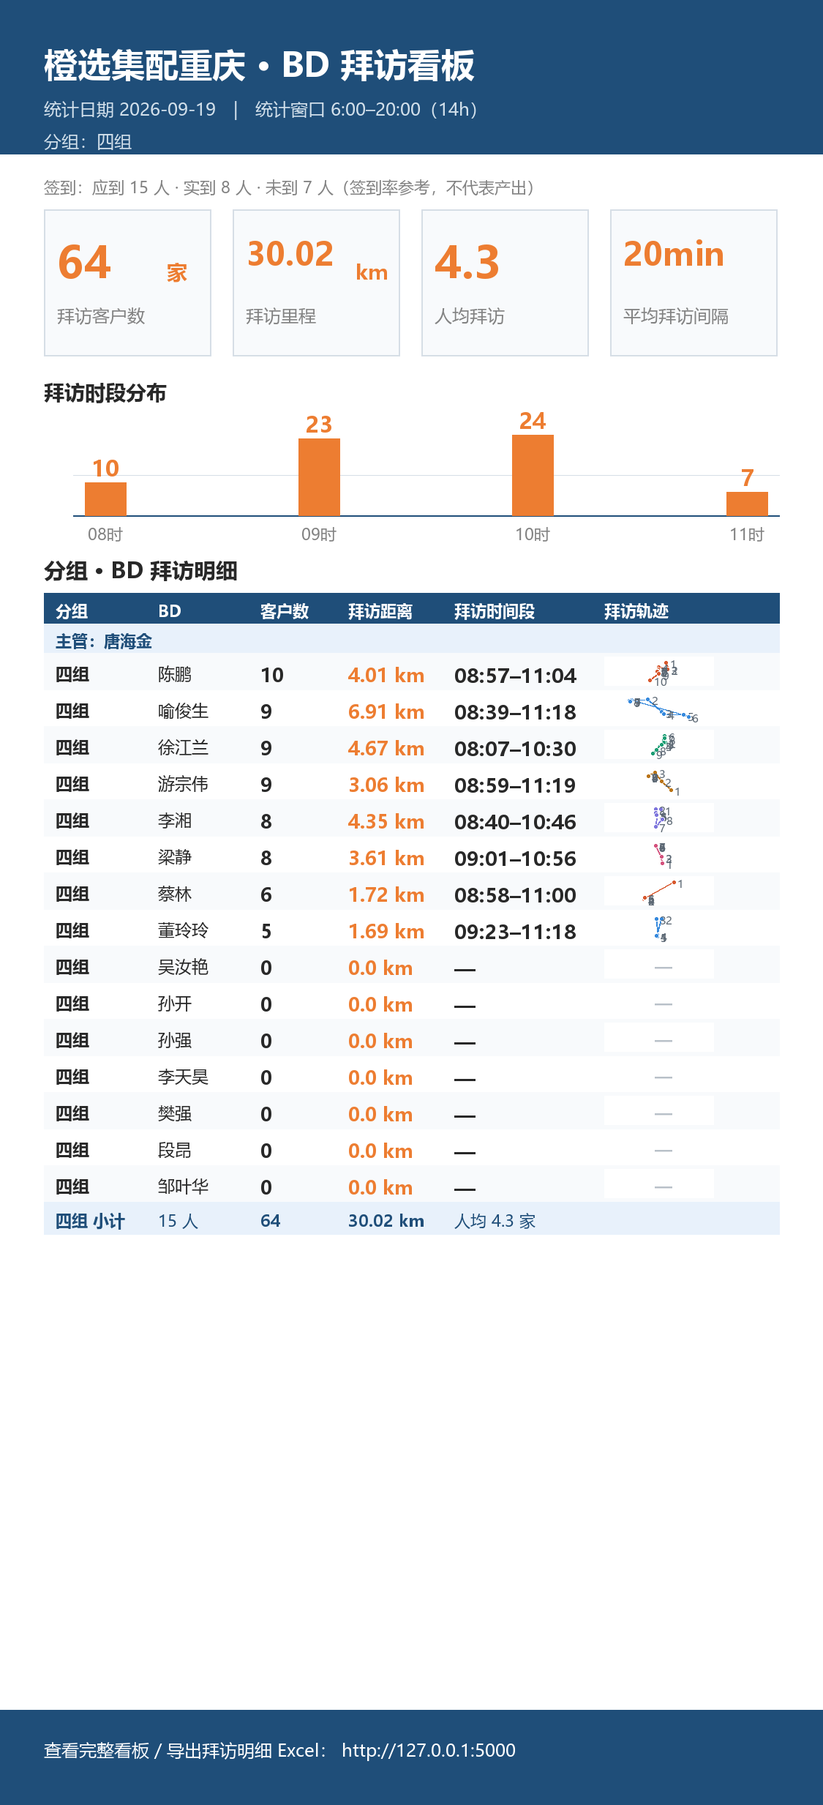
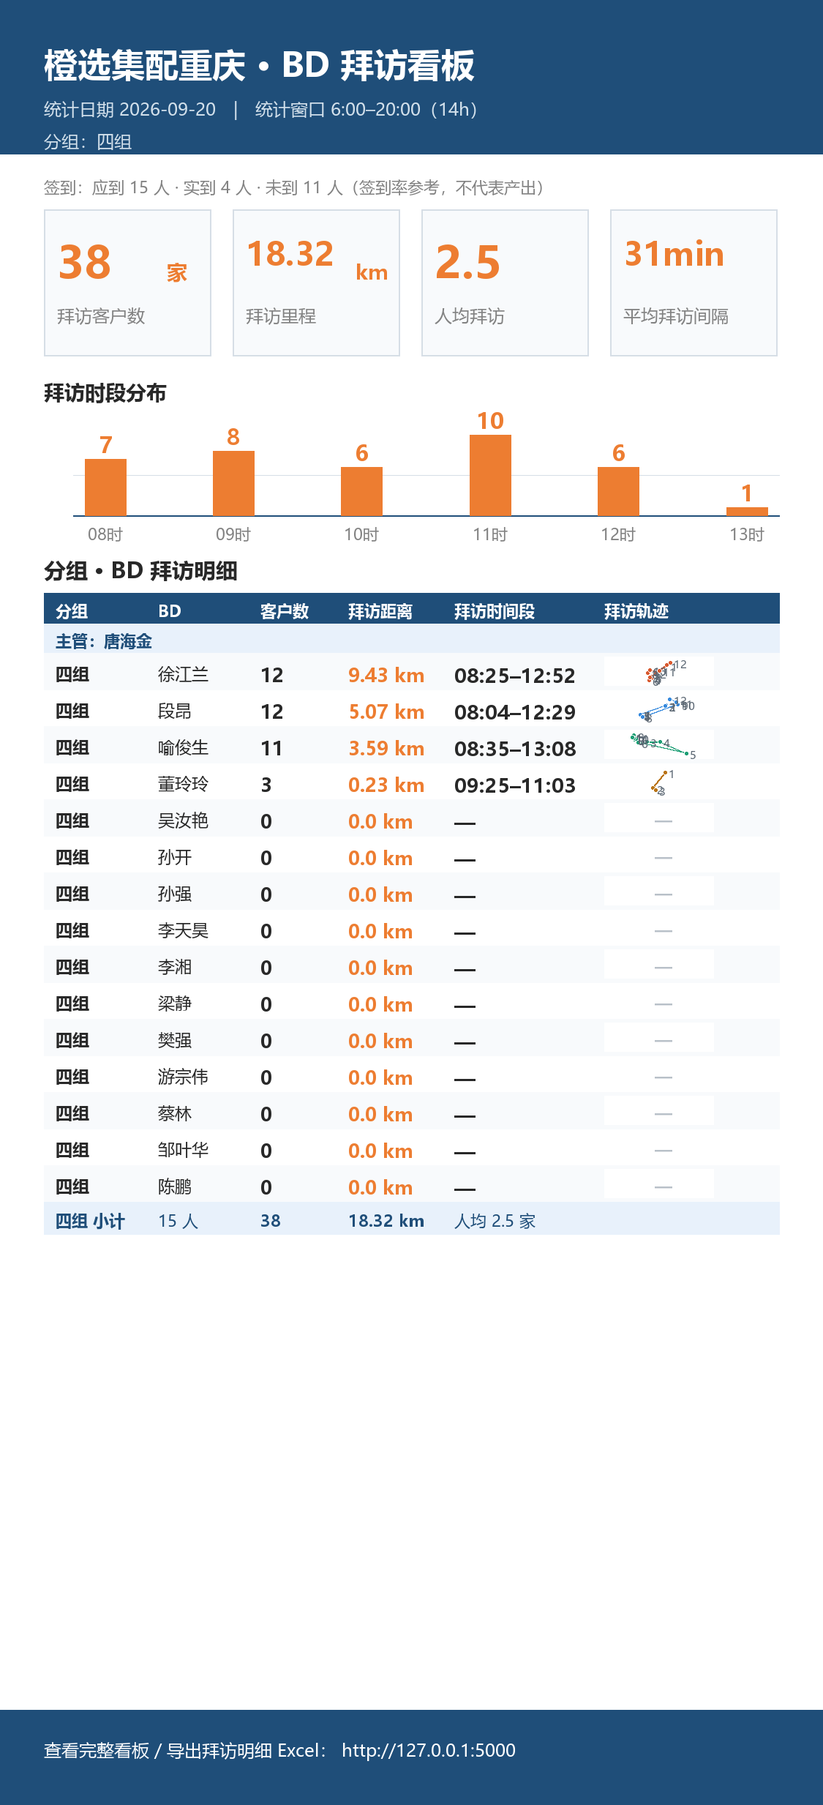
BD 拜访看板 2026-09-20

diff --git a/bd_visits/visit_board_g4.html b/bd_visits/visit_board_g4.html
@@ -107,28 +107,28 @@ td.span{font-size:16px;font-weight:600;color:#1F4E79;white-space:nowrap}
 <div class="sub">统计日期 2026-09-20　|　15 人　|　数据来源：钉钉签到</div></div>
 <div class="wrap">
 <div class="cards">
-<div class="card"><div><span class="v">30</span><span class="u">家</span></div><div class="l">拜访客户数</div></div><div class="card"><div><span class="v">13.75</span><span class="u">km</span></div><div class="l">拜访里程</div></div><div class="card"><div><span class="v">2.0</span><span class="u">家</span></div><div class="l">人均拜访</div></div><div class="card"><div><span class="v">31min</span><span class="u"></span></div><div class="l">平均拜访间隔</div></div>
+<div class="card"><div><span class="v">38</span><span class="u">家</span></div><div class="l">拜访客户数</div></div><div class="card"><div><span class="v">18.32</span><span class="u">km</span></div><div class="l">拜访里程</div></div><div class="card"><div><span class="v">2.5</span><span class="u">家</span></div><div class="l">人均拜访</div></div><div class="card"><div><span class="v">31min</span><span class="u"></span></div><div class="l">平均拜访间隔</div></div>
 </div>
-<div class="section"><h2>拜访时段分布</h2><div class="chart"><div class="crow"><div class="col"><span class="bv">7</span><div class="bar" style="height:40px"></div><span class="xl">08时</span></div><div class="col"><span class="bv">8</span><div class="bar" style="height:45px"></div><span class="xl">09时</span></div><div class="col"><span class="bv">6</span><div class="bar" style="height:35px"></div><span class="xl">10时</span></div><div class="col"><span class="bv">9</span><div class="bar" style="height:50px"></div><span class="xl">11时</span></div></div></div></div>
+<div class="section"><h2>拜访时段分布</h2><div class="chart"><div class="crow"><div class="col"><span class="bv">7</span><div class="bar" style="height:36px"></div><span class="xl">08时</span></div><div class="col"><span class="bv">8</span><div class="bar" style="height:41px"></div><span class="xl">09时</span></div><div class="col"><span class="bv">6</span><div class="bar" style="height:32px"></div><span class="xl">10时</span></div><div class="col"><span class="bv">10</span><div class="bar" style="height:50px"></div><span class="xl">11时</span></div><div class="col"><span class="bv">6</span><div class="bar" style="height:32px"></div><span class="xl">12时</span></div><div class="col"><span class="bv">1</span><div class="bar" style="height:9px"></div><span class="xl">13时</span></div></div></div></div>
 <div class="section"><h2>BD 拜访明细（15 人 / 签到 4 人）</h2>
 <table class="bd"><thead><tr><th>BD</th><th class="num">客户数</th><th class="num">拜访距离</th><th class="c">拜访时间段</th><th class="c">拜访轨迹</th></tr></thead>
 <tbody><tr style="background:#F2F6FB">
 <td data-label="BD">徐江兰</td>
-<td class="num" data-label="客户数">10</td>
-<td class="num orange" data-label="拜访距离">5.64</td>
-<td class="c span" data-label="拜访时间段">08:25–11:38</td>
+<td class="num" data-label="客户数">12</td>
+<td class="num orange" data-label="拜访距离">9.43</td>
+<td class="c span" data-label="拜访时间段">08:25–12:52</td>
 <td class="c" data-label="拜访轨迹"><a href="javascript:void(0)" onclick="openRoute(0)" style="color:#1F4E79;font-weight:600;font-size:13px;white-space:nowrap">查看详情 ›</a></td>
 </tr><tr style="background:#FFFFFF">
 <td data-label="BD">段昂</td>
-<td class="num" data-label="客户数">9</td>
-<td class="num orange" data-label="拜访距离">4.44</td>
-<td class="c span" data-label="拜访时间段">08:04–11:44</td>
+<td class="num" data-label="客户数">12</td>
+<td class="num orange" data-label="拜访距离">5.07</td>
+<td class="c span" data-label="拜访时间段">08:04–12:29</td>
 <td class="c" data-label="拜访轨迹"><a href="javascript:void(0)" onclick="openRoute(1)" style="color:#1F4E79;font-weight:600;font-size:13px;white-space:nowrap">查看详情 ›</a></td>
 </tr><tr style="background:#F2F6FB">
 <td data-label="BD">喻俊生</td>
-<td class="num" data-label="客户数">8</td>
-<td class="num orange" data-label="拜访距离">3.44</td>
-<td class="c span" data-label="拜访时间段">08:35–11:41</td>
+<td class="num" data-label="客户数">11</td>
+<td class="num orange" data-label="拜访距离">3.59</td>
+<td class="c span" data-label="拜访时间段">08:35–13:08</td>
 <td class="c" data-label="拜访轨迹"><a href="javascript:void(0)" onclick="openRoute(2)" style="color:#1F4E79;font-weight:600;font-size:13px;white-space:nowrap">查看详情 ›</a></td>
 </tr><tr style="background:#FFFFFF">
 <td data-label="BD">董玲玲</td>
@@ -216,7 +216,7 @@ td.span{font-size:16px;font-weight:600;color:#1F4E79;white-space:nowrap}
 </div>
 
 <script>
-const R={"0": {"name": "徐江兰", "group": "四组", "visits": 10, "distance": 5.64, "span": "08:25–11:38", "pace": "22min", "pts": [{"lat": 30.66855902777778, "lon": 107.80062391493055, "time": "08:25", "visit": "新客拜访", "loc": "梁山街道核桃巷10号文图大楼(建设中)", "seg_km": 0.0}, {"lat": 30.657359212239584, "lon": 107.78189208984375, "time": "08:56", "visit": "回访", "loc": "双桂街道仁安路兴茂·盛世华都", "seg_km": 2.18}, {"lat": 30.651634385850695, "lon": 107.77478542751736, "time": "09:33", "visit": "维护、促单", "loc": "双桂街道玉桂路梁平时光", "seg_km": 0.93}, {"lat": 30.649035101996528, "lon": 107.77356879340277, "time": "09:40", "visit": "回访", "loc": "双桂街道钟文路中央公园城", "seg_km": 0.31}, {"lat": 30.649158528645835, "lon": 107.77355143229167, "time": "09:55", "visit": "做售后", "loc": "双桂街道钟文路中央公园城", "seg_km": 0.01}, {"lat": 30.646631130642362, "lon": 107.76994818793403, "time": "10:31", "visit": "回访", "loc": "双桂街道丹桂大道隆鑫花漾城", "seg_km": 0.44}, {"lat": 30.650628797743057, "lon": 107.77122802734375, "time": "10:47", "visit": "挽回", "loc": "双桂街道A+寿司(帝豪·时代城二期店)帝豪·时代城二期", "seg_km": 0.46}, {"lat": 30.656971571180556, "lon": 107.76813557942708, "time": "10:58", "visit": "新客拜访", "loc": "双桂街道竹贞路书香郡", "seg_km": 0.76}, {"lat": 30.660824110243055, "lon": 107.7711181640625, "time": "11:10", "visit": "回访", "loc": "双桂街道迎宾路89号", "seg_km": 0.51}, {"lat": 30.66115451388889, "lon": 107.77121473524305, "time": "11:38", "visit": "挽回", "loc": "双桂街道云复路渝峰水管有限公司", "seg_km": 0.04}], "stops": [{"n": 1, "time": "08:25", "visit": "新客拜访", "loc": "梁山街道核桃巷10号文图大楼(建设中)"}, {"n": 2, "time": "08:56", "visit": "回访", "loc": "双桂街道仁安路兴茂·盛世华都"}, {"n": 3, "time": "09:33", "visit": "维护、促单", "loc": "双桂街道玉桂路梁平时光"}, {"n": 4, "time": "09:40", "visit": "回访", "loc": "双桂街道钟文路中央公园城"}, {"n": 5, "time": "09:55", "visit": "做售后", "loc": "双桂街道钟文路中央公园城"}, {"n": 6, "time": "10:31", "visit": "回访", "loc": "双桂街道丹桂大道隆鑫花漾城"}, {"n": 7, "time": "10:47", "visit": "挽回", "loc": "双桂街道A+寿司(帝豪·时代城二期店)帝豪·时代城二期"}, {"n": 8, "time": "10:58", "visit": "新客拜访", "loc": "双桂街道竹贞路书香郡"}, {"n": 9, "time": "11:10", "visit": "回访", "loc": "双桂街道迎宾路89号"}, {"n": 10, "time": "11:38", "visit": "挽回", "loc": "双桂街道云复路渝峰水管有限公司"}]}, "1": {"name": "段昂", "group": "四组", "visits": 9, "distance": 4.44, "span": "08:04–11:44", "pace": "28min", "pts": [{"lat": 29.70568142361111, "lon": 107.39352728949653, "time": "08:04", "visit": "水果店\n新客户开发", "loc": "荔枝街道黎明路", "seg_km": 0.0}, {"lat": 29.705283745659724, "lon": 107.39302707248264, "time": "08:06", "visit": "张姐超级鲜果\n新客户开发", "loc": "荔枝街道黎明路", "seg_km": 0.07}, {"lat": 29.705258517795137, "lon": 107.39290771484374, "time": "08:14", "visit": "黎明路口便民菜市场\n新客开发", "loc": "荔枝街道黎明路", "seg_km": 0.01}, {"lat": 29.699981553819445, "lon": 107.37625596788195, "time": "09:05", "visit": "一家生鲜\n新客户开发", "loc": "荔枝街道太极大道涪城尚座", "seg_km": 1.71}, {"lat": 29.700158148871527, "lon": 107.37622477213542, "time": "10:06", "visit": "物资小区门口水果摊\n拜访召回", "loc": "荔枝街道太极大道物资小区", "seg_km": 0.02}, {"lat": 29.700082736545138, "lon": 107.3762584092882, "time": "10:07", "visit": "佳容超市\n拜访召回", "loc": "荔枝街道太极大道涪城尚座", "seg_km": 0.01}, {"lat": 29.70017578125, "lon": 107.37630669487847, "time": "10:27", "visit": "宜金昇\n拜访新客户", "loc": "荔枝街道太极大道物资小区", "seg_km": 0.01}, {"lat": 29.6990625, "lon": 107.3777210828993, "time": "11:00", "visit": "永香果蔬便利店\n召回客户", "loc": "荔枝街道太极大道青云大厦(太极大道)", "seg_km": 0.18}, {"lat": 29.706268174913195, "lon": 107.4014794921875, "time": "11:44", "visit": "五桂堂b08\n老客户维护", "loc": "敦仁街道中国工商银行(南门山支行)", "seg_km": 2.43}], "stops": [{"n": 1, "time": "08:04", "visit": "水果店\n新客户开发", "loc": "荔枝街道黎明路"}, {"n": 2, "time": "08:06", "visit": "张姐超级鲜果\n新客户开发", "loc": "荔枝街道黎明路"}, {"n": 3, "time": "08:14", "visit": "黎明路口便民菜市场\n新客开发", "loc": "荔枝街道黎明路"}, {"n": 4, "time": "09:05", "visit": "一家生鲜\n新客户开发", "loc": "荔枝街道太极大道涪城尚座"}, {"n": 5, "time": "10:06", "visit": "物资小区门口水果摊\n拜访召回", "loc": "荔枝街道太极大道物资小区"}, {"n": 6, "time": "10:07", "visit": "佳容超市\n拜访召回", "loc": "荔枝街道太极大道涪城尚座"}, {"n": 7, "time": "10:27", "visit": "宜金昇\n拜访新客户", "loc": "荔枝街道太极大道物资小区"}, {"n": 8, "time": "11:00", "visit": "永香果蔬便利店\n召回客户", "loc": "荔枝街道太极大道青云大厦(太极大道)"}, {"n": 9, "time": "11:44", "visit": "五桂堂b08\n老客户维护", "loc": "敦仁街道中国工商银行(南门山支行)"}]}, "2": {"name": "喻俊生", "group": "四组", "visits": 8, "distance": 3.44, "span": "08:35–11:41", "pace": "26min", "pts": [{"lat": 29.531076388888888, "lon": 108.76494710286458, "time": "08:35", "visit": "水果摊\n新开", "loc": "城西街道城西三路", "seg_km": 0.0}, {"lat": 29.530256890190973, "lon": 108.76581841362847, "time": "08:40", "visit": "新开客户", "loc": "城西街道杨家巷", "seg_km": 0.12}, {"lat": 29.529680718315973, "lon": 108.76954752604166, "time": "09:20", "visit": "果然多\n新开", "loc": "城西街道新华大道西段", "seg_km": 0.37}, {"lat": 29.529656846788196, "lon": 108.77362955729167, "time": "09:34", "visit": "正华水果\n新开", "loc": "城西街道新华大道中段954号工行黔江分行大楼", "seg_km": 0.39}, {"lat": 29.526612413194446, "lon": 108.7817333984375, "time": "11:06", "visit": "南海城菜市场", "loc": "城东街道解放路天龙大酒店", "seg_km": 0.85}, {"lat": 29.52944580078125, "lon": 108.76688802083333, "time": "11:16", "visit": "一口果", "loc": "城西街道新华大道西段101号金穗花园", "seg_km": 1.47}, {"lat": 29.53036810980903, "lon": 108.76626247829861, "time": "11:35", "visit": "新开", "loc": "城西街道城西三路59号", "seg_km": 0.12}, {"lat": 29.531288519965276, "lon": 108.76562445746528, "time": "11:41", "visit": "新开", "loc": "城西街道大梁子巷", "seg_km": 0.12}], "stops": [{"n": 1, "time": "08:35", "visit": "水果摊\n新开", "loc": "城西街道城西三路"}, {"n": 2, "time": "08:40", "visit": "新开客户", "loc": "城西街道杨家巷"}, {"n": 3, "time": "09:20", "visit": "果然多\n新开", "loc": "城西街道新华大道西段"}, {"n": 4, "time": "09:34", "visit": "正华水果\n新开", "loc": "城西街道新华大道中段954号工行黔江分行大楼"}, {"n": 5, "time": "11:06", "visit": "南海城菜市场", "loc": "城东街道解放路天龙大酒店"}, {"n": 6, "time": "11:16", "visit": "一口果", "loc": "城西街道新华大道西段101号金穗花园"}, {"n": 7, "time": "11:35", "visit": "新开", "loc": "城西街道城西三路59号"}, {"n": 8, "time": "11:41", "visit": "新开", "loc": "城西街道大梁子巷"}]}, "3": {"name": "董玲玲", "group": "四组", "visits": 3, "distance": 0.23, "span": "09:25–11:03", "pace": "49min", "pts": [{"lat": 30.834994032118054, "lon": 106.97144287109376, "time": "09:25", "visit": "挽回", "loc": "渠江街道后溪街", "seg_km": 0.0}, {"lat": 30.833531358506946, "lon": 106.97017605251736, "time": "09:38", "visit": "开新", "loc": "渠南街道半边街156号渠县人民市场", "seg_km": 0.2}, {"lat": 30.833363444010416, "lon": 106.97043782552083, "time": "11:03", "visit": "售后", "loc": "渠南街道半边街156号渠县人民市场", "seg_km": 0.03}], "stops": [{"n": 1, "time": "09:25", "visit": "挽回", "loc": "渠江街道后溪街"}, {"n": 2, "time": "09:38", "visit": "开新", "loc": "渠南街道半边街156号渠县人民市场"}, {"n": 3, "time": "11:03", "visit": "售后", "loc": "渠南街道半边街156号渠县人民市场"}]}};
+const R={"0": {"name": "徐江兰", "group": "四组", "visits": 12, "distance": 9.43, "span": "08:25–12:52", "pace": "24min", "pts": [{"lat": 30.66855902777778, "lon": 107.80062391493055, "time": "08:25", "visit": "新客拜访", "loc": "梁山街道核桃巷10号文图大楼(建设中)", "seg_km": 0.0}, {"lat": 30.657359212239584, "lon": 107.78189208984375, "time": "08:56", "visit": "回访", "loc": "双桂街道仁安路兴茂·盛世华都", "seg_km": 2.18}, {"lat": 30.651634385850695, "lon": 107.77478542751736, "time": "09:33", "visit": "维护、促单", "loc": "双桂街道玉桂路梁平时光", "seg_km": 0.93}, {"lat": 30.649035101996528, "lon": 107.77356879340277, "time": "09:40", "visit": "回访", "loc": "双桂街道钟文路中央公园城", "seg_km": 0.31}, {"lat": 30.649158528645835, "lon": 107.77355143229167, "time": "09:55", "visit": "做售后", "loc": "双桂街道钟文路中央公园城", "seg_km": 0.01}, {"lat": 30.646631130642362, "lon": 107.76994818793403, "time": "10:31", "visit": "回访", "loc": "双桂街道丹桂大道隆鑫花漾城", "seg_km": 0.44}, {"lat": 30.650628797743057, "lon": 107.77122802734375, "time": "10:47", "visit": "挽回", "loc": "双桂街道A+寿司(帝豪·时代城二期店)帝豪·时代城二期", "seg_km": 0.46}, {"lat": 30.656971571180556, "lon": 107.76813557942708, "time": "10:58", "visit": "新客拜访", "loc": "双桂街道竹贞路书香郡", "seg_km": 0.76}, {"lat": 30.660824110243055, "lon": 107.7711181640625, "time": "11:10", "visit": "回访", "loc": "双桂街道迎宾路89号", "seg_km": 0.51}, {"lat": 30.66115451388889, "lon": 107.77121473524305, "time": "11:38", "visit": "挽回", "loc": "双桂街道云复路渝峰水管有限公司", "seg_km": 0.04}, {"lat": 30.66026340060764, "lon": 107.7874462890625, "time": "12:19", "visit": "挽回", "loc": "双桂街道西城路锦绣家园", "seg_km": 1.56}, {"lat": 30.67243896484375, "lon": 107.80597819010417, "time": "12:52", "visit": "挽回", "loc": "梁山街道东池街东城丽景", "seg_km": 2.23}], "stops": [{"n": 1, "time": "08:25", "visit": "新客拜访", "loc": "梁山街道核桃巷10号文图大楼(建设中)"}, {"n": 2, "time": "08:56", "visit": "回访", "loc": "双桂街道仁安路兴茂·盛世华都"}, {"n": 3, "time": "09:33", "visit": "维护、促单", "loc": "双桂街道玉桂路梁平时光"}, {"n": 4, "time": "09:40", "visit": "回访", "loc": "双桂街道钟文路中央公园城"}, {"n": 5, "time": "09:55", "visit": "做售后", "loc": "双桂街道钟文路中央公园城"}, {"n": 6, "time": "10:31", "visit": "回访", "loc": "双桂街道丹桂大道隆鑫花漾城"}, {"n": 7, "time": "10:47", "visit": "挽回", "loc": "双桂街道A+寿司(帝豪·时代城二期店)帝豪·时代城二期"}, {"n": 8, "time": "10:58", "visit": "新客拜访", "loc": "双桂街道竹贞路书香郡"}, {"n": 9, "time": "11:10", "visit": "回访", "loc": "双桂街道迎宾路89号"}, {"n": 10, "time": "11:38", "visit": "挽回", "loc": "双桂街道云复路渝峰水管有限公司"}, {"n": 11, "time": "12:19", "visit": "挽回", "loc": "双桂街道西城路锦绣家园"}, {"n": 12, "time": "12:52", "visit": "挽回", "loc": "梁山街道东池街东城丽景"}]}, "1": {"name": "段昂", "group": "四组", "visits": 12, "distance": 5.07, "span": "08:04–12:29", "pace": "24min", "pts": [{"lat": 29.70568142361111, "lon": 107.39352728949653, "time": "08:04", "visit": "水果店\n新客户开发", "loc": "荔枝街道黎明路", "seg_km": 0.0}, {"lat": 29.705283745659724, "lon": 107.39302707248264, "time": "08:06", "visit": "张姐超级鲜果\n新客户开发", "loc": "荔枝街道黎明路", "seg_km": 0.07}, {"lat": 29.705258517795137, "lon": 107.39290771484374, "time": "08:14", "visit": "黎明路口便民菜市场\n新客开发", "loc": "荔枝街道黎明路", "seg_km": 0.01}, {"lat": 29.699981553819445, "lon": 107.37625596788195, "time": "09:05", "visit": "一家生鲜\n新客户开发", "loc": "荔枝街道太极大道涪城尚座", "seg_km": 1.71}, {"lat": 29.700158148871527, "lon": 107.37622477213542, "time": "10:06", "visit": "物资小区门口水果摊\n拜访召回", "loc": "荔枝街道太极大道物资小区", "seg_km": 0.02}, {"lat": 29.700082736545138, "lon": 107.3762584092882, "time": "10:07", "visit": "佳容超市\n拜访召回", "loc": "荔枝街道太极大道涪城尚座", "seg_km": 0.01}, {"lat": 29.70017578125, "lon": 107.37630669487847, "time": "10:27", "visit": "宜金昇\n拜访新客户", "loc": "荔枝街道太极大道物资小区", "seg_km": 0.01}, {"lat": 29.6990625, "lon": 107.3777210828993, "time": "11:00", "visit": "永香果蔬便利店\n召回客户", "loc": "荔枝街道太极大道青云大厦(太极大道)", "seg_km": 0.18}, {"lat": 29.706268174913195, "lon": 107.4014794921875, "time": "11:44", "visit": "五桂堂b08\n老客户维护", "loc": "敦仁街道中国工商银行(南门山支行)", "seg_km": 2.43}, {"lat": 29.706170247395832, "lon": 107.40150906032986, "time": "12:00", "visit": "五桂堂b02\n维护老客户", "loc": "敦仁街道人民东路", "seg_km": 0.01}, {"lat": 29.70726291232639, "lon": 107.40024848090277, "time": "12:05", "visit": "新纪元陈兴其\n老客户维护", "loc": "敦仁街道人民东路9号", "seg_km": 0.17}, {"lat": 29.709204915364584, "lon": 107.39610243055556, "time": "12:29", "visit": "鲜肉铺\n新客户开发", "loc": "敦仁街道中山路金科长江星辰", "seg_km": 0.45}], "stops": [{"n": 1, "time": "08:04", "visit": "水果店\n新客户开发", "loc": "荔枝街道黎明路"}, {"n": 2, "time": "08:06", "visit": "张姐超级鲜果\n新客户开发", "loc": "荔枝街道黎明路"}, {"n": 3, "time": "08:14", "visit": "黎明路口便民菜市场\n新客开发", "loc": "荔枝街道黎明路"}, {"n": 4, "time": "09:05", "visit": "一家生鲜\n新客户开发", "loc": "荔枝街道太极大道涪城尚座"}, {"n": 5, "time": "10:06", "visit": "物资小区门口水果摊\n拜访召回", "loc": "荔枝街道太极大道物资小区"}, {"n": 6, "time": "10:07", "visit": "佳容超市\n拜访召回", "loc": "荔枝街道太极大道涪城尚座"}, {"n": 7, "time": "10:27", "visit": "宜金昇\n拜访新客户", "loc": "荔枝街道太极大道物资小区"}, {"n": 8, "time": "11:00", "visit": "永香果蔬便利店\n召回客户", "loc": "荔枝街道太极大道青云大厦(太极大道)"}, {"n": 9, "time": "11:44", "visit": "五桂堂b08\n老客户维护", "loc": "敦仁街道中国工商银行(南门山支行)"}, {"n": 10, "time": "12:00", "visit": "五桂堂b02\n维护老客户", "loc": "敦仁街道人民东路"}, {"n": 11, "time": "12:05", "visit": "新纪元陈兴其\n老客户维护", "loc": "敦仁街道人民东路9号"}, {"n": 12, "time": "12:29", "visit": "鲜肉铺\n新客户开发", "loc": "敦仁街道中山路金科长江星辰"}]}, "2": {"name": "喻俊生", "group": "四组", "visits": 11, "distance": 3.59, "span": "08:35–13:08", "pace": "27min", "pts": [{"lat": 29.531076388888888, "lon": 108.76494710286458, "time": "08:35", "visit": "水果摊\n新开", "loc": "城西街道城西三路", "seg_km": 0.0}, {"lat": 29.530256890190973, "lon": 108.76581841362847, "time": "08:40", "visit": "新开客户", "loc": "城西街道杨家巷", "seg_km": 0.12}, {"lat": 29.529680718315973, "lon": 108.76954752604166, "time": "09:20", "visit": "果然多\n新开", "loc": "城西街道新华大道西段", "seg_km": 0.37}, {"lat": 29.529656846788196, "lon": 108.77362955729167, "time": "09:34", "visit": "正华水果\n新开", "loc": "城西街道新华大道中段954号工行黔江分行大楼", "seg_km": 0.39}, {"lat": 29.526612413194446, "lon": 108.7817333984375, "time": "11:06", "visit": "南海城菜市场", "loc": "城东街道解放路天龙大酒店", "seg_km": 0.85}, {"lat": 29.52944580078125, "lon": 108.76688802083333, "time": "11:16", "visit": "一口果", "loc": "城西街道新华大道西段101号金穗花园", "seg_km": 1.47}, {"lat": 29.53036810980903, "lon": 108.76626247829861, "time": "11:35", "visit": "新开", "loc": "城西街道城西三路59号", "seg_km": 0.12}, {"lat": 29.531288519965276, "lon": 108.76562445746528, "time": "11:41", "visit": "新开", "loc": "城西街道大梁子巷", "seg_km": 0.12}, {"lat": 29.530572916666667, "lon": 108.76564344618056, "time": "11:52", "visit": "新开", "loc": "城西街道西山路", "seg_km": 0.08}, {"lat": 29.53078369140625, "lon": 108.76504584418403, "time": "12:16", "visit": "新开", "loc": "城西街道城西三路", "seg_km": 0.06}, {"lat": 29.53084879557292, "lon": 108.76509548611111, "time": "13:08", "visit": "新开", "loc": "城西街道李家巷", "seg_km": 0.01}], "stops": [{"n": 1, "time": "08:35", "visit": "水果摊\n新开", "loc": "城西街道城西三路"}, {"n": 2, "time": "08:40", "visit": "新开客户", "loc": "城西街道杨家巷"}, {"n": 3, "time": "09:20", "visit": "果然多\n新开", "loc": "城西街道新华大道西段"}, {"n": 4, "time": "09:34", "visit": "正华水果\n新开", "loc": "城西街道新华大道中段954号工行黔江分行大楼"}, {"n": 5, "time": "11:06", "visit": "南海城菜市场", "loc": "城东街道解放路天龙大酒店"}, {"n": 6, "time": "11:16", "visit": "一口果", "loc": "城西街道新华大道西段101号金穗花园"}, {"n": 7, "time": "11:35", "visit": "新开", "loc": "城西街道城西三路59号"}, {"n": 8, "time": "11:41", "visit": "新开", "loc": "城西街道大梁子巷"}, {"n": 9, "time": "11:52", "visit": "新开", "loc": "城西街道西山路"}, {"n": 10, "time": "12:16", "visit": "新开", "loc": "城西街道城西三路"}, {"n": 11, "time": "13:08", "visit": "新开", "loc": "城西街道李家巷"}]}, "3": {"name": "董玲玲", "group": "四组", "visits": 3, "distance": 0.23, "span": "09:25–11:03", "pace": "49min", "pts": [{"lat": 30.834994032118054, "lon": 106.97144287109376, "time": "09:25", "visit": "挽回", "loc": "渠江街道后溪街", "seg_km": 0.0}, {"lat": 30.833531358506946, "lon": 106.97017605251736, "time": "09:38", "visit": "开新", "loc": "渠南街道半边街156号渠县人民市场", "seg_km": 0.2}, {"lat": 30.833363444010416, "lon": 106.97043782552083, "time": "11:03", "visit": "售后", "loc": "渠南街道半边街156号渠县人民市场", "seg_km": 0.03}], "stops": [{"n": 1, "time": "09:25", "visit": "挽回", "loc": "渠江街道后溪街"}, {"n": 2, "time": "09:38", "visit": "开新", "loc": "渠南街道半边街156号渠县人民市场"}, {"n": 3, "time": "11:03", "visit": "售后", "loc": "渠南街道半边街156号渠县人民市场"}]}};
 var rMap=null, rLayer=null, rReady=false;
 function ensureMap(){
   if(rReady) return;
